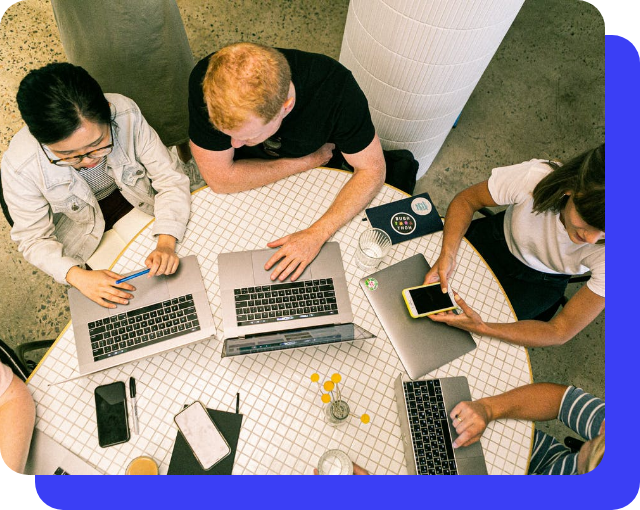
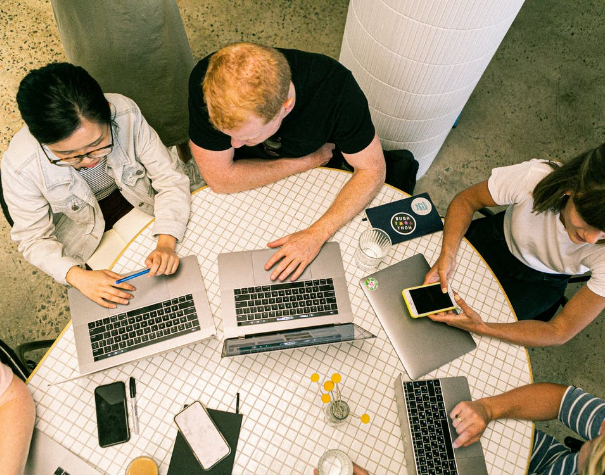
Tweaked partners images component + css about page

diff --git a/src/components/HomepagePartners.js b/src/components/HomepagePartners.js
@@ -31,123 +31,37 @@ import teamviewerNM from "../../static/img/partners/teamviewerNM.png"
 import deltaDM from "../../static/img/partners/delta.png"
 import deltaNM from "../../static/img/partners/deltaNM.png"
 
-
-function amazonPartner() {
-    return (
-        <ThemedImage
-        alt="Amazon Partner Loop Language" 
-          sources={{
-            light: amazonDM,
-            dark: amazonNM,
-          }}
-          className={styles.partnerIMG}>
-            </ThemedImage>
-    )
+function generatePartners( lightPic, darkPic, name ){
+  return (
+      <div key={{name}} className={clsx("col col--2")}>
+    <div className={clsx("text--center")}>
+      <ThemedImage 
+      sources={{
+        light: lightPic, 
+        dark: darkPic,
+      }}
+      alt={name} 
+      className={styles.partnerIMG} />{" "}
+    </div>{" "}
+  </div>
+  );
 }
 
-function netflixPartner() {
-    return (
-        <ThemedImage
-        alt="Netflix Partner Loop Language" 
-          sources={{
-            light: netflixDM,
-            dark: netflixNM,
-          }}
-          className={styles.partnerIMG}>
-            </ThemedImage>
-    )
+function Partners() { 
+  return [
+    generatePartners(amazonDM, amazonNM, "Amazon Logo"), 
+    generatePartners(netflixDM, netflixNM, "Netflix Logo"), 
+    generatePartners(fontysDM, fontysNM, "Fontys Logo"), 
+    generatePartners(atlassianDM, atlassianNM, "Atlassian Logo"), 
+    generatePartners(teamviewerDM, teamviewerNM, "Teamviewer Logo"), 
+    generatePartners(deltaDM, deltaNM, "Delta Logo"), 
+  ]
 }
 
-function fontysPartner() {
-    return (
-        <ThemedImage
-        alt="Fontys Partner Loop Language" 
-          sources={{
-            light: fontysDM,
-            dark: fontysNM,
-          }}
-          className={styles.partnerIMG}>
-            </ThemedImage>
-    )
-}
-
-function atlassianPartner() {
-    return (
-        <ThemedImage
-        alt="Atlassian Partner Loop Language" 
-          sources={{
-            light: atlassianDM,
-            dark: atlassianNM,
-          }}
-          className={styles.partnerIMG}>
-            </ThemedImage>
-    )
-}
-
-function teamviewerPartner() {
-    return (
-        <ThemedImage
-        alt="Teamviewer Partner Loop Language" 
-          sources={{
-            light: teamviewerDM,
-            dark: teamviewerNM,
-          }}
-          className={styles.partnerIMG}>
-            </ThemedImage>
-    )
-}
-
-function deltaPartner() {
-    return (
-        <ThemedImage
-        alt="Delta Partner Loop Language" 
-          sources={{
-            light: deltaDM,
-            dark: deltaNM,
-          }}
-          className={styles.partnerIMG}>
-            </ThemedImage>
-    )
-}
-
-const PartnersList = [
-    {
-        alt: "Amazon Logo",
-        ThemedImage: amazonPartner, 
-    }, 
-    {
-        alt: "Netflix Logo", 
-        ThemedImage: netflixPartner, 
-    }, 
-    {
-        alt: "Fontys Logo", 
-        ThemedImage: fontysPartner, 
-    }, 
-    {
-        alt: "Atlassian Logo",
-        ThemedImage: atlassianPartner, 
-    }, 
-    {
-        alt: "Teamviewer Logo", 
-        ThemedImage: teamviewerPartner, 
-    }, 
-    {
-        alt: "Delta FHICT Logo", 
-        ThemedImage: deltaPartner, 
-    }
-]; 
-
-function Partners({ ThemedImage, alt }){
-    return (
-        <div className={clsx("col col--2")}>
-      <div className={clsx("text--center")}>
-        <ThemedImage alt={alt} className={styles.partnerIMG} />{" "}
-      </div>{" "}
-    </div>
-    );
-}
 
 export default function HomepagePartners() {
+    var ObtainedPartners = Partners();
+
     return (
         <section>
           <div className={clsx("container")}>
@@ -156,10 +70,9 @@ export default function HomepagePartners() {
               <h1 className={styles.headerText}>loop language</h1>
             </div>
             <div className={clsx("row")}>
+              {" "}              
+              {ObtainedPartners}
               {" "}
-              {PartnersList.map((props, idx) => (
-                <Partners key={idx} {...props} />
-              ))}{" "}
             </div>{" "}
           </div>{" "}
         </section>

diff --git a/src/pages/about.module.css b/src/pages/about.module.css
@@ -96,6 +96,12 @@
   .heroImage { 
     margin: 0 auto; 
     width: 30vw; 
+    border-radius: 2.3em;
+  }
+
+  .heroImage img { 
+    border-radius: 2.3em;
+    box-shadow: 28px 28px var(--ifm-color-primary); 
   }
   
   .codeIMG { 
@@ -188,6 +194,12 @@
     .heroImage {
       margin-left: 7em; 
       width: 30vw;  
+      border-radius: 1.3em;
+    }
+
+    .heroImage img { 
+      border-radius: 1.3em;
+      box-shadow: 20px 20px var(--ifm-color-primary); 
     }
   
     .heroProjectTagline { 
@@ -277,6 +289,11 @@
       width: 350px; 
       margin-top: 50px; 
     }
+
+    .heroImage img { 
+      border-radius: 1.3em;
+      box-shadow: 20px 20px var(--ifm-color-primary); 
+    }
   }
   
   @media only screen and (max-width: 600px) {
@@ -331,7 +348,10 @@
       /* width: 80vw; */
       padding-left: 12%;
     }
-  
+
+    .heroImage img { 
+      box-shadow: 13px 13px var(--ifm-color-primary); 
+    }
     
   
   }

diff --git a/src/pages/index.js b/src/pages/index.js
@@ -9,6 +9,7 @@ import HomepageFeatures from "../components/HomepageFeatures";
 import "../theme/dracula-prism.css";
 import codeShotsDM from "../../static/img/codeShotsDM.png"
 import codeShotsNM from "../../static/img/codeShotsNM.png"
+import HomepagePartners from "../components/HomepagePartners";
 // import HomepagePartners from "../components/HomepagePartners"; May be included in the future, but is inrelevent at the moment
 
 function HomepageHeader() {
